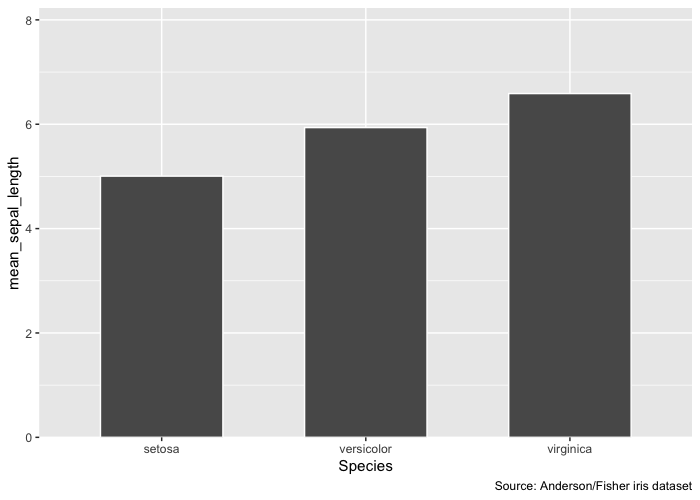
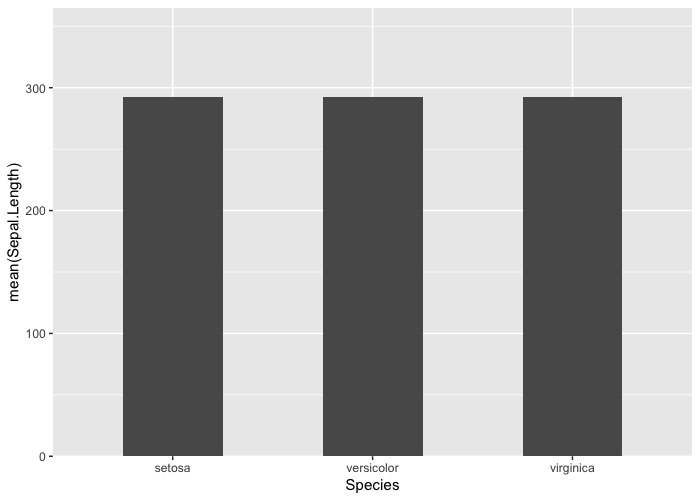
bump version

Changed region(s): [[0.0, 0.0, 0.99, 0.99]]

diff --git a/README.md b/README.md
@@ -12,39 +12,24 @@ central idea: one call to `plot2()` replaces many separate `ggplot2` +
 data transformations, axis handling, and custom theming.
 
 ``` r
+head(iris)
+#>   Sepal.Length Sepal.Width Petal.Length Petal.Width Species
+#> 1          5.1         3.5          1.4         0.2  setosa
+#> 2          4.9         3.0          1.4         0.2  setosa
+#> 3          4.7         3.2          1.3         0.2  setosa
+#> 4          4.6         3.1          1.5         0.2  setosa
+#> 5          5.0         3.6          1.4         0.2  setosa
+#> 6          5.4         3.9          1.7         0.4  setosa
+
 library(ggplot2)
-library(dplyr)
-iris |>
-  group_by(Species) |>
-  summarise(
-    mean_sepal_length = mean(Sepal.Length),
-    .groups = "drop"
-  ) |>
-  mutate(
-    Species = factor(Species, levels = c("setosa", "versicolor", "virginica"))
-  ) |>
-  ggplot(
-    mapping = aes(
-      x    = Species,
-      y    = mean_sepal_length,
-    )
-  ) + # switch from '|>' to '+' for ggplot elements
-  geom_bar(
-    stat          = "identity",
-    colour        = "white",
-    width         = 0.6,
-    show.legend   = FALSE
-  ) +
-  scale_y_continuous(
-    expand = expansion(mult = c(0, 0.25)),
-    limits = c(0, NA),
-  ) +
-  scale_x_discrete(
-    name = "Species"
-  ) +
-  labs(
-    caption = "Source: Anderson/Fisher iris dataset"
-  )
+ggplot(
+  data = iris,
+  mapping = aes(
+    x = Species,
+    # transformation in ggplot do not account for other aesthetics:
+    y = mean(Sepal.Length))) +
+  geom_col(width = 0.5) +
+  scale_y_continuous(expand = expansion(mult = c(0, 0.25)))
 ```
 
 <img src="man/figures/README-unnamed-chunk-2-1.png" width="100%" />
@@ -53,9 +38,7 @@ iris |>
 library(plot2)
 iris |>
   plot2(x = Species,
-        y = mean(Sepal.Length),
-        legend.position = "none",
-        caption = "Source: Anderson/Fisher iris dataset")
+        y = mean(Sepal.Length))
 ```
 
 <img src="man/figures/README-unnamed-chunk-2-2.png" width="100%" />
